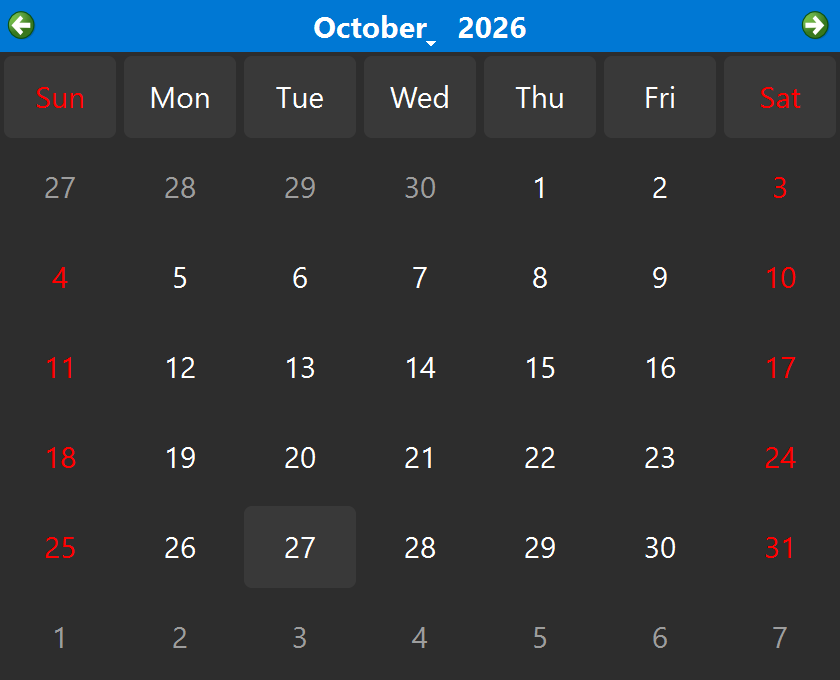
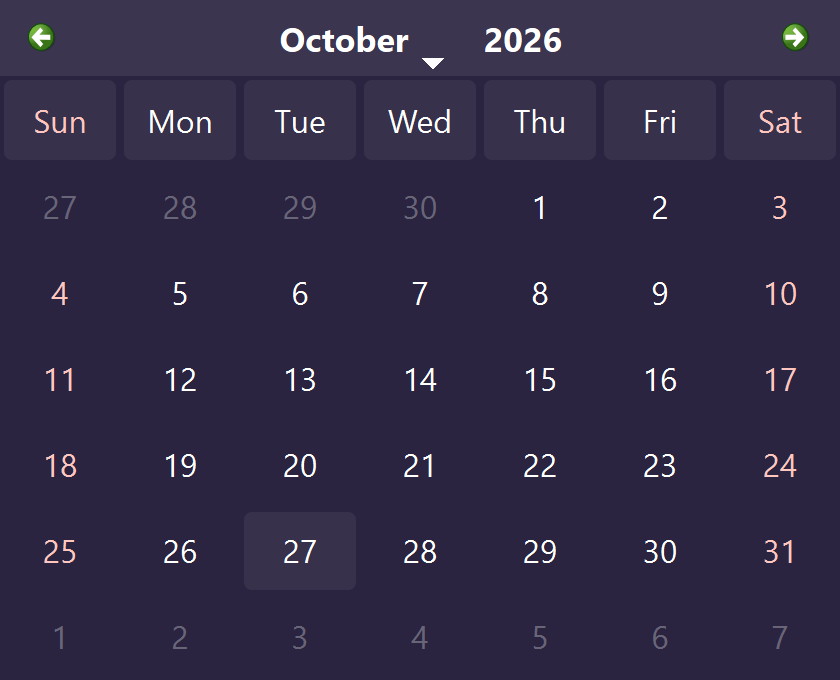
Glass theme for the main window, Settings and the calendar
The main window and Settings dialog now share the setup screens' look: gradient background,
frosted-glass buttons and fields, larger type, primary actions brighter. The queue's Media
column stretches, the Settings tabs scroll, the calendar popup matches.

diff --git a/app.py b/app.py
@@ -9,10 +9,10 @@ import webbrowser
 from pathlib import Path
 
 from PySide6.QtCore import QDate, QDateTime, QEvent, QPoint, QPointF, QSize, Qt, QThread, QTime, QTimer, QUrl, Signal
-from PySide6.QtGui import QAction, QColor, QDesktopServices, QFont, QGuiApplication, QIcon, QImage, QKeySequence, QPainter, QPixmap
+from PySide6.QtGui import QAction, QColor, QDesktopServices, QFont, QGuiApplication, QIcon, QImage, QKeySequence, QPainter, QPixmap, QTextCharFormat
 from PySide6.QtWidgets import (QAbstractItemView, QApplication, QCalendarWidget, QCheckBox, QComboBox, QDialog, QDialogButtonBox,
-                               QFileDialog, QFormLayout, QFrame, QGroupBox, QHBoxLayout, QLabel, QLineEdit, QMainWindow, QMenu,
-                               QMessageBox, QPlainTextEdit, QProgressBar, QPushButton, QSizePolicy, QSpinBox, QSplitter, QStackedWidget,
+                               QFileDialog, QFormLayout, QFrame, QGroupBox, QHBoxLayout, QHeaderView, QLabel, QLineEdit, QMainWindow, QMenu,
+                               QMessageBox, QPlainTextEdit, QProgressBar, QPushButton, QScrollArea, QSizePolicy, QSpinBox, QSplitter, QStackedWidget,
                                QStyle, QSystemTrayIcon, QTabWidget, QTimeEdit, QToolBar, QTreeWidget, QTreeWidgetItem, QVBoxLayout, QWidget)
 
 import engine as eng
@@ -24,9 +24,9 @@ from version import PRODUCT, VERSION
 TITLE = f'{PRODUCT} {VERSION}'
 FILE_FILTER = 'Photos and videos (*.jpg *.jpeg *.png *.webp *.bmp *.tif *.tiff *.gif *.mp4 *.mov *.m4v);;All files (*)'
 CHECK_SECONDS = 30
-STATUS_COLOR = {'queued': None, 'posting': '#2b6cb0', 'posted': '#2f855a', 'failed': '#c53030', 'missed': '#b7791f'}
+STATUS_COLOR = {'queued': None, 'posting': '#8ec5ff', 'posted': '#7fe0a0', 'failed': '#ff8a7a', 'missed': '#ffcf6e'}
 TRAY_NAME = 'the menu bar' if cfg.MAC else 'the notification area'
-OK_STYLE, BAD_STYLE, MUTED_STYLE = 'color: #2f855a;', 'color: #c53030;', 'color: #666;'
+OK_STYLE, BAD_STYLE, MUTED_STYLE = 'color: #7fe0a0;', 'color: #ff8a7a;', 'color: rgba(255,255,255,0.62);'
 
 
 def resource(name):
@@ -97,8 +97,9 @@ class DateTimePicker(QWidget):
         self.time_edit.timeChanged.connect(lambda t: self.dateTimeChanged.emit(self.dateTime()))
         row.addWidget(self.date_button, 1); row.addWidget(self.time_edit)
         self.calendar = QCalendarWidget(); self.calendar.setWindowFlags(Qt.Popup); self.calendar.setGridVisible(False)
-        self.calendar.setVerticalHeaderFormat(QCalendarWidget.NoVerticalHeader); self.calendar.setMinimumSize(400, 320)
-        font = self.calendar.font(); font.setPointSize(font.pointSize() + 2); self.calendar.setFont(font)
+        self.calendar.setVerticalHeaderFormat(QCalendarWidget.NoVerticalHeader); self.calendar.setMinimumSize(400, 320); self.calendar.setStyleSheet(CALENDAR_STYLE)
+        weekend = QTextCharFormat(); weekend.setForeground(QColor('#ffc6bf'))
+        for day in (Qt.Saturday, Qt.Sunday): self.calendar.setWeekdayTextFormat(day, weekend)
         self.calendar.clicked.connect(self.pick_date); self.calendar.activated.connect(self.pick_date)
         self.update_text()
 
@@ -326,41 +327,105 @@ class GeneralPanel(QWidget):
 class SettingsDialog(QDialog):
     """Instagram account, media hosting and general behaviour, for changes after setup."""
     def __init__(self, settings, parent=None):
-        super().__init__(parent); self.settings = settings; self.setWindowTitle(f'{PRODUCT} Settings'); self.resize(680, 660); self.setMinimumSize(560, 600)
-        layout = QVBoxLayout(self); self.tabs = QTabWidget(); layout.addWidget(self.tabs, 1)
+        super().__init__(parent); self.settings = settings; self.setWindowTitle(f'{PRODUCT} Settings'); self.resize(760, 720); self.setMinimumSize(620, 640)
+        self.setObjectName('settings'); self.setStyleSheet(APP_STYLE)
+        layout = QVBoxLayout(self); layout.setContentsMargins(16, 16, 16, 16); self.tabs = QTabWidget(); layout.addWidget(self.tabs, 1)
         self.instagram, self.hosting, self.general = InstagramPanel(settings), HostingPanel(settings), GeneralPanel(settings)
         for panel, name in ((self.instagram, 'Instagram'), (self.hosting, 'Media hosting'), (self.general, 'General')):
-            page = QWidget(); pl = QVBoxLayout(page); pl.addWidget(panel); pl.addStretch(1); self.tabs.addTab(page, name)
+            page = QWidget(); pl = QVBoxLayout(page); pl.setContentsMargins(12, 12, 12, 12); pl.addWidget(panel); pl.addStretch(1)
+            area = QScrollArea(); area.setWidgetResizable(True); area.setFrameShape(QFrame.NoFrame); area.setWidget(page); self.tabs.addTab(area, name)
         buttons = QDialogButtonBox(QDialogButtonBox.Close); buttons.rejected.connect(self.accept); layout.addWidget(buttons)
         if not settings.connected(): self.tabs.setCurrentIndex(0)
         elif not settings.hosting_ready(): self.tabs.setCurrentIndex(1)
 
 
+# --- The look: a soft gradient behind everything, frosted-glass controls, large type ---------------------------------
+GRADIENT = 'qlineargradient(x1:0, y1:0, x2:1, y2:1, stop:0 #3a1f45, stop:0.55 #22203a, stop:1 #4a2424)'
+APP_STYLE = f'''
+QMainWindow#main, QDialog#settings {{ background: {GRADIENT}; }}
+#main QWidget, #settings QWidget {{ font-size: 12pt; }}
+#main QLabel, #settings QLabel {{ color: white; background: transparent; }}
+#main QToolBar {{ background: transparent; border: none; padding: 6px 4px; spacing: 8px; }}
+#main QToolButton {{ color: white; font-size: 12pt; padding: 8px 16px; border-radius: 12px; background: rgba(255,255,255,0.10); border: 1px solid rgba(255,255,255,0.32); }}
+#main QToolButton:hover {{ background: rgba(255,255,255,0.19); }}
+#main QToolButton:checked {{ background: rgba(229,57,43,0.45); border-color: rgba(255,255,255,0.6); }}
+#main QTreeWidget {{ background: rgba(255,255,255,0.06); alternate-background-color: rgba(255,255,255,0.03); border: 1px solid rgba(255,255,255,0.18);
+  border-radius: 12px; color: white; padding: 4px; outline: none; }}
+#main QTreeWidget::item {{ padding: 6px; border-radius: 8px; }}
+#main QTreeWidget::item:selected {{ background: rgba(229,57,43,0.55); color: white; }}
+#main QTreeWidget::item:hover {{ background: rgba(255,255,255,0.08); }}
+#main QHeaderView::section {{ background: transparent; color: rgba(255,255,255,0.6); border: none; padding: 6px; font-size: 10pt; letter-spacing: 1px; }}
+#main QSplitter::handle {{ background: transparent; }}
+#main QLineEdit, #main QPlainTextEdit, #main QComboBox, #main QTimeEdit, #settings QLineEdit, #settings QComboBox, #settings QTimeEdit, #settings QSpinBox {{
+  color: white; padding: 8px 12px; border-radius: 10px; background: rgba(255,255,255,0.09); border: 1px solid rgba(255,255,255,0.26); selection-background-color: #e5392b; }}
+#main QLineEdit:focus, #main QPlainTextEdit:focus, #settings QLineEdit:focus {{ border: 1px solid rgba(255,255,255,0.7); }}
+#main QComboBox QAbstractItemView, #settings QComboBox QAbstractItemView {{ background: #2a2440; color: white; selection-background-color: #e5392b; }}
+#main QPushButton, #settings QPushButton {{ color: white; padding: 9px 20px; border-radius: 12px; background: rgba(255,255,255,0.10); border: 1px solid rgba(255,255,255,0.32); }}
+#main QPushButton:hover, #settings QPushButton:hover {{ background: rgba(255,255,255,0.19); border-color: rgba(255,255,255,0.55); }}
+#main QPushButton:pressed, #settings QPushButton:pressed {{ background: rgba(255,255,255,0.28); }}
+#main QPushButton:disabled, #settings QPushButton:disabled {{ color: rgba(255,255,255,0.35); border-color: rgba(255,255,255,0.12); background: rgba(255,255,255,0.04); }}
+#main QPushButton#save, #main QPushButton#post_now, #main QPushButton#banner_button {{ background: rgba(255,255,255,0.24); border: 1px solid rgba(255,255,255,0.7); font-weight: 600; }}
+#main QPushButton#save:hover, #main QPushButton#post_now:hover {{ background: rgba(255,255,255,0.34); }}
+#main QPushButton#date {{ text-align: left; padding-left: 16px; }}
+#main QPushButton#quick {{ padding: 5px 12px; font-size: 11pt; border-radius: 9px; }}
+#settings QScrollArea {{ background: transparent; border: none; }}
+#settings QScrollArea > QWidget > QWidget {{ background: transparent; }}
+#settings QScrollBar:vertical {{ background: transparent; width: 10px; }}
+#settings QScrollBar::handle:vertical {{ background: rgba(255,255,255,0.25); border-radius: 5px; min-height: 30px; }}
+#settings QScrollBar::add-line:vertical, #settings QScrollBar::sub-line:vertical {{ height: 0; }}
+#main QFrame#banner {{ background: rgba(255,196,0,0.14); border: 1px solid rgba(255,196,0,0.5); border-radius: 12px; }}
+#main QFrame#banner QLabel {{ color: white; }}
+#main QStatusBar {{ background: transparent; color: rgba(255,255,255,0.7); }}
+#main QStatusBar::item {{ border: none; }}
+#main QProgressBar {{ border: 1px solid rgba(255,255,255,0.3); border-radius: 6px; background: rgba(255,255,255,0.08); text-align: center; color: white; }}
+#main QProgressBar::chunk {{ background: #e5392b; border-radius: 5px; }}
+#main QLabel#empty {{ color: rgba(255,255,255,0.7); font-size: 15pt; background: rgba(255,255,255,0.05); border: 1px dashed rgba(255,255,255,0.3); border-radius: 16px; padding: 40px; }}
+#main QLabel#name {{ font-size: 14pt; font-weight: 600; }}
+#settings QTabWidget::pane {{ border: 1px solid rgba(255,255,255,0.18); border-radius: 12px; background: rgba(255,255,255,0.04); top: -1px; }}
+#settings QTabBar::tab {{ color: rgba(255,255,255,0.75); padding: 10px 22px; background: rgba(255,255,255,0.06); border: 1px solid rgba(255,255,255,0.18); border-bottom: none; border-top-left-radius: 10px; border-top-right-radius: 10px; margin-right: 4px; }}
+#settings QTabBar::tab:selected {{ color: white; background: rgba(255,255,255,0.16); }}
+#settings QGroupBox {{ color: rgba(255,255,255,0.85); border: 1px solid rgba(255,255,255,0.18); border-radius: 12px; margin-top: 14px; padding-top: 10px; }}
+#settings QGroupBox::title {{ subcontrol-origin: margin; left: 12px; padding: 0 6px; }}
+#settings QCheckBox {{ color: white; spacing: 10px; }}
+#settings QDialogButtonBox QPushButton {{ min-width: 100px; }}
+'''
+CALENDAR_STYLE = '''
+QCalendarWidget { background: #2a2440; color: white; border: 1px solid rgba(255,255,255,0.3); border-radius: 12px; }
+QCalendarWidget QWidget { background: #2a2440; color: white; font-size: 12pt; }
+QCalendarWidget QWidget#qt_calendar_navigationbar { background: rgba(255,255,255,0.08); }
+QCalendarWidget QToolButton { color: white; background: transparent; border-radius: 8px; padding: 6px 12px; font-size: 13pt; }
+QCalendarWidget QToolButton:hover { background: rgba(255,255,255,0.15); }
+QCalendarWidget QAbstractItemView { background: #2a2440; color: white; selection-background-color: #e5392b; selection-color: white; outline: none; }
+QCalendarWidget QAbstractItemView:disabled { color: rgba(255,255,255,0.3); }
+QCalendarWidget QSpinBox { color: white; background: rgba(255,255,255,0.1); border-radius: 6px; }
+'''
+
+
 # --- First-run setup: one thing per screen, large type, glass buttons ------------------------------------------------
-SETUP_STYLE = '''
-#setup { background: qlineargradient(x1:0, y1:0, x2:1, y2:1, stop:0 #3a1f45, stop:0.55 #22203a, stop:1 #4a2424); }
-#setup QLabel { color: white; background: transparent; }
-#setup QLabel#title { font-size: 26pt; font-weight: 600; }
-#setup QLabel#lead { font-size: 15pt; color: rgba(255,255,255,0.88); }
-#setup QLabel#hint { font-size: 11pt; color: rgba(255,255,255,0.62); }
-#setup QLabel#status { font-size: 13pt; color: rgba(255,255,255,0.85); }
-#setup QLabel#progress { font-size: 10pt; color: rgba(255,255,255,0.55); letter-spacing: 2px; }
-#setup QLineEdit, #setup QComboBox, #setup QTimeEdit {
+SETUP_STYLE = f'''
+#setup {{ background: {GRADIENT}; }}
+#setup QLabel {{ color: white; background: transparent; }}
+#setup QLabel#title {{ font-size: 26pt; font-weight: 600; }}
+#setup QLabel#lead {{ font-size: 15pt; color: rgba(255,255,255,0.88); }}
+#setup QLabel#hint {{ font-size: 11pt; color: rgba(255,255,255,0.62); }}
+#setup QLabel#status {{ font-size: 13pt; color: rgba(255,255,255,0.85); }}
+#setup QLabel#progress {{ font-size: 10pt; color: rgba(255,255,255,0.55); letter-spacing: 2px; }}
+#setup QLineEdit, #setup QComboBox, #setup QTimeEdit {{
   font-size: 17pt; padding: 10px 16px; border-radius: 12px; color: white;
-  background: rgba(255,255,255,0.09); border: 1px solid rgba(255,255,255,0.28); selection-background-color: #e5392b; }
-#setup QLineEdit:focus, #setup QComboBox:focus, #setup QTimeEdit:focus { border: 1px solid rgba(255,255,255,0.7); }
-#setup QComboBox QAbstractItemView { font-size: 14pt; background: #2a2440; color: white; selection-background-color: #e5392b; }
-#setup QPushButton {
+  background: rgba(255,255,255,0.09); border: 1px solid rgba(255,255,255,0.28); selection-background-color: #e5392b; }}
+#setup QLineEdit:focus, #setup QComboBox:focus, #setup QTimeEdit:focus {{ border: 1px solid rgba(255,255,255,0.7); }}
+#setup QComboBox QAbstractItemView {{ font-size: 14pt; background: #2a2440; color: white; selection-background-color: #e5392b; }}
+#setup QPushButton {{
   font-size: 15pt; padding: 13px 34px; border-radius: 14px; color: white;
-  background: rgba(255,255,255,0.11); border: 1px solid rgba(255,255,255,0.38); }
-#setup QPushButton:hover { background: rgba(255,255,255,0.20); border-color: rgba(255,255,255,0.6); }
-#setup QPushButton:pressed { background: rgba(255,255,255,0.28); }
-#setup QPushButton:disabled { color: rgba(255,255,255,0.35); border-color: rgba(255,255,255,0.14); background: rgba(255,255,255,0.04); }
-#setup QPushButton#primary { background: rgba(255,255,255,0.24); border: 1px solid rgba(255,255,255,0.7); font-weight: 600; }
-#setup QPushButton#primary:hover { background: rgba(255,255,255,0.34); }
-#setup QPushButton#choice { text-align: left; padding: 16px 24px; }
-#setup QPushButton#link { background: transparent; border: none; color: rgba(255,255,255,0.72); font-size: 12pt; padding: 8px 10px; text-decoration: underline; }
-#setup QPushButton#link:hover { color: white; }
+  background: rgba(255,255,255,0.11); border: 1px solid rgba(255,255,255,0.38); }}
+#setup QPushButton:hover {{ background: rgba(255,255,255,0.20); border-color: rgba(255,255,255,0.6); }}
+#setup QPushButton:pressed {{ background: rgba(255,255,255,0.28); }}
+#setup QPushButton:disabled {{ color: rgba(255,255,255,0.35); border-color: rgba(255,255,255,0.14); background: rgba(255,255,255,0.04); }}
+#setup QPushButton#primary {{ background: rgba(255,255,255,0.24); border: 1px solid rgba(255,255,255,0.7); font-weight: 600; }}
+#setup QPushButton#primary:hover {{ background: rgba(255,255,255,0.34); }}
+#setup QPushButton#choice {{ text-align: left; padding: 16px 24px; }}
+#setup QPushButton#link {{ background: transparent; border: none; color: rgba(255,255,255,0.72); font-size: 12pt; padding: 8px 10px; text-decoration: underline; }}
+#setup QPushButton#link:hover {{ color: white; }}
 '''
 
 
@@ -654,7 +719,7 @@ class MainWindow(QMainWindow):
         super().__init__()
         self.engine, self.settings, self.lock = engine, settings, lock
         self.worker = None; self.current = None; self.dirty = False; self.thumbs = {}; self.quitting = False
-        self.setWindowTitle(TITLE); self.setObjectName('main'); self.resize(1040, 640); self.setAcceptDrops(True)
+        self.setWindowTitle(TITLE); self.setObjectName('main'); self.resize(1180, 720); self.setAcceptDrops(True); self.setStyleSheet(APP_STYLE)
         self.build(); self.build_tray()
         self.refresh()
         self.timer = QTimer(self); self.timer.timeout.connect(self.tick); self.timer.start(CHECK_SECONDS * 1000)
@@ -685,8 +750,7 @@ class MainWindow(QMainWindow):
 
         central = QWidget(); outer = QVBoxLayout(central); outer.setContentsMargins(8, 8, 8, 8); outer.setSpacing(8)
         self.banner = QFrame(); self.banner.setObjectName('banner'); self.banner.setFrameShape(QFrame.StyledPanel)
-        self.banner.setStyleSheet('#banner { background: #fff4d6; border: 1px solid #e0c070; border-radius: 6px; } #banner QLabel { color: #3b2f00; }')
-        row = QHBoxLayout(self.banner); self.banner_text = QLabel(''); self.banner_text.setWordWrap(True); row.addWidget(self.banner_text, 1)
+        row = QHBoxLayout(self.banner); row.setContentsMargins(14, 10, 14, 10); self.banner_text = QLabel(''); self.banner_text.setWordWrap(True); row.addWidget(self.banner_text, 1)
         self.banner_button = QPushButton('Finish setup'); self.banner_button.setObjectName('banner_button'); self.banner_button.clicked.connect(self.open_setup); row.addWidget(self.banner_button)
         outer.addWidget(self.banner)
 
@@ -694,18 +758,19 @@ class MainWindow(QMainWindow):
         self.tree = QTreeWidget(); self.tree.setObjectName('queue'); self.tree.setAccessibleName('Scheduled posts')
         self.tree.setHeaderLabels(['', 'Media', 'Scheduled for', 'Status']); self.tree.setIconSize(QSize(64, 64)); self.tree.setRootIsDecorated(False)
         self.tree.setSelectionMode(QAbstractItemView.ExtendedSelection); self.tree.setUniformRowHeights(True); self.tree.setAlternatingRowColors(True)
-        self.tree.setColumnWidth(0, 76); self.tree.setColumnWidth(1, 220); self.tree.setColumnWidth(2, 200)
+        header = self.tree.header(); header.setStretchLastSection(False); header.setSectionResizeMode(1, QHeaderView.Stretch)
+        for column, width in ((0, 76), (2, 210), (3, 110)): self.tree.setColumnWidth(column, width)
         self.tree.itemSelectionChanged.connect(self.selection_changed); self.tree.setContextMenuPolicy(Qt.CustomContextMenu)
         self.tree.customContextMenuRequested.connect(self.context_menu)
         self.empty = QLabel('Drop photos or videos here, or click Add photos or videos.\n\nEach one is scheduled for the next free posting time; change it on the right.')
-        self.empty.setAlignment(Qt.AlignCenter); self.empty.setWordWrap(True); self.empty.setStyleSheet('color: #666; font-size: 11pt;')
+        self.empty.setAlignment(Qt.AlignCenter); self.empty.setWordWrap(True); self.empty.setObjectName('empty')
         left = QWidget(); ll = QVBoxLayout(left); ll.setContentsMargins(0, 0, 0, 0); ll.addWidget(self.tree, 1); ll.addWidget(self.empty, 1)
         split.addWidget(left)
 
         self.detail = QWidget(); self.detail.setObjectName('detail'); dl = QVBoxLayout(self.detail); dl.setContentsMargins(4, 0, 0, 0)
         self.preview = PreviewLabel(); self.preview.setStyleSheet('background: #1f1f23; border-radius: 6px;')
         dl.addWidget(self.preview, 1)
-        self.name_label = QLabel(''); self.name_label.setStyleSheet('font-weight: 600;'); self.name_label.setWordWrap(True); dl.addWidget(self.name_label)
+        self.name_label = QLabel(''); self.name_label.setObjectName('name'); self.name_label.setWordWrap(True); dl.addWidget(self.name_label)
         form = QFormLayout(); form.setLabelAlignment(Qt.AlignRight); dl.addLayout(form)
         when_box = QVBoxLayout(); when_box.setSpacing(4)
         self.when_edit = DateTimePicker(); self.when_edit.setObjectName('when'); self.when_edit.setAccessibleName('Scheduled date and time')
@@ -713,8 +778,8 @@ class MainWindow(QMainWindow):
         when_box.addWidget(self.when_edit)
         quick = QHBoxLayout(); quick.setSpacing(6)
         for text, delta in (('+1 hour', dt.timedelta(hours=1)), ('+1 day', dt.timedelta(days=1)), ('+1 week', dt.timedelta(days=7))):
-            b = QPushButton(text); b.setToolTip(f'Move the scheduled time by {text[1:]}'); b.clicked.connect(lambda _=False, d=delta: self.shift_when(d)); quick.addWidget(b)
-        slot = QPushButton('Next free slot'); slot.setToolTip('The next free default posting time (set in Settings > General)'); slot.clicked.connect(self.use_next_slot); quick.addWidget(slot)
+            b = QPushButton(text); b.setObjectName('quick'); b.setToolTip(f'Move the scheduled time by {text[1:]}'); b.clicked.connect(lambda _=False, d=delta: self.shift_when(d)); quick.addWidget(b)
+        slot = QPushButton('Next free slot'); slot.setObjectName('quick'); slot.setToolTip('The next free default posting time (set in Settings > General)'); slot.clicked.connect(self.use_next_slot); quick.addWidget(slot)
         quick.addStretch(1); when_box.addLayout(quick)
         form.addRow('Post on', when_box)
         self.fit_combo = QComboBox(); self.fit_combo.setObjectName('fit'); self.fit_combo.addItem('Crop to fit Instagram', 'crop'); self.fit_combo.addItem('Add white borders', 'pad')

diff --git a/CHANGELOG.md b/CHANGELOG.md
@@ -11,5 +11,6 @@ First release.
 - **Runs in the background:** closing the window keeps PostQueue in the notification area, a second launch brings the window back, and the installer adds a start-at-sign-in entry (Settings > General turns it off).
 - **First run:** a full-screen setup in the style of Ollama's installer: large type, one instruction and one frosted-glass button per screen, seventeen short screens at most (professional account, how to sign in, create the Meta app, App ID, App secret, redirect address, tester role, sign in, which account, Cloudinary account, cloud name, API key, API secret, test hosting, posting time, start at sign-in). The sign-in and the hosting test move on by themselves when they succeed; Next only lights up once a field has a value; a token shortcut skips the Meta app screens. The tabbed Settings dialog serves later changes.
 - **Date picking:** the scheduled date is a button that opens a calendar, with the time next to it and +1 hour, +1 day, +1 week and Next free slot underneath.
+- **Look:** the main window, the Settings dialog and the calendar share the setup screens' style: a soft gradient behind everything, frosted-glass buttons and fields, larger type, and Save changes and Post now brighter than the other buttons.
 - **Package, Windows:** one-folder build, portable EXE, zip and per-user or per-machine MSI for x64 and ARM64, following the Local AI Manager build guideline. The MSI shows one screen with an Install button.
 - **Package, Mac:** `PostQueue.app` in a disk image with an Applications link (one drag to install) for Apple silicon and Intel, built by `build_macos.sh`; secrets in the login keychain, start at sign-in as a LaunchAgent.
